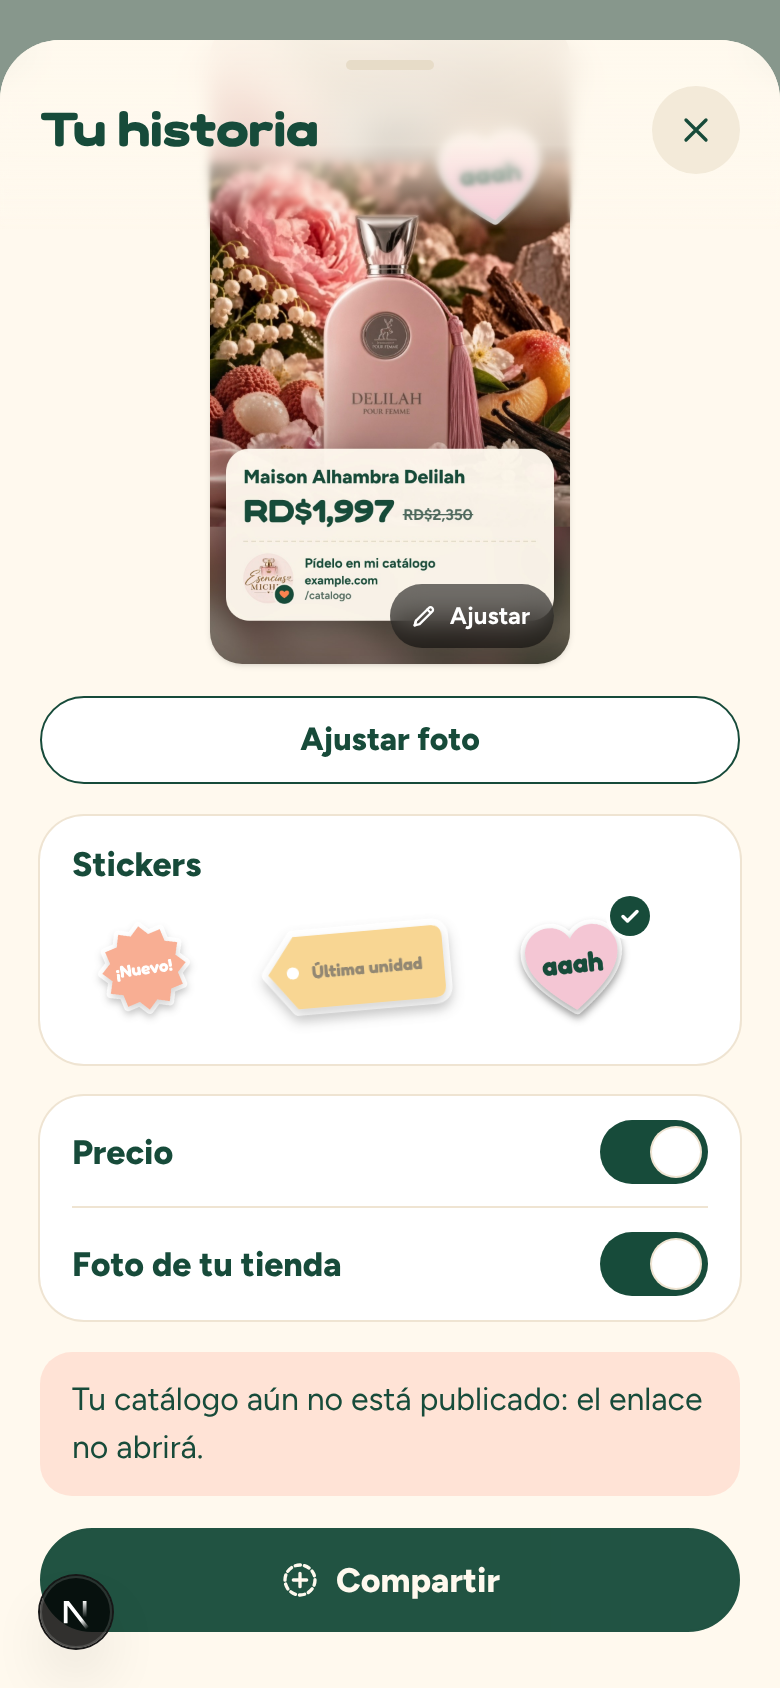
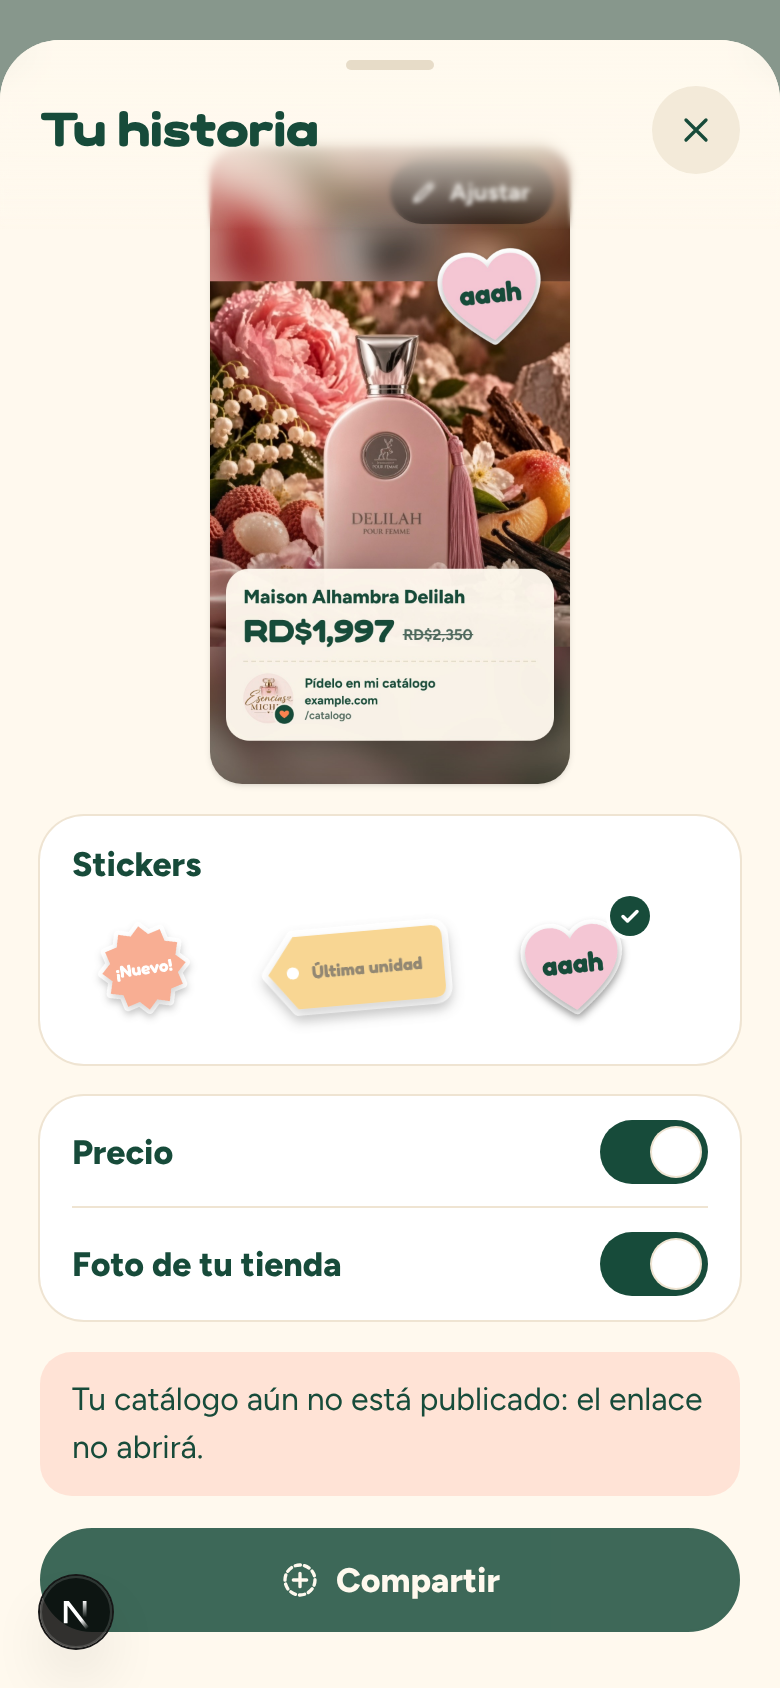
Historia: sin botón «Ajustar foto» duplicado, píldora «Ajustar» arriba a la derecha y «Historia» en tarjetas angostas
Claude-Session: https://claude.ai/code/session_013HrY2G9hccboKChpkxYntr

Changed region(s): [[0.2462, 0.0308, 0.7385, 0.4621], [0.0308, 0.8934, 0.9538, 0.9858], [0.9231, 0.4313, 0.9538, 0.4621]]

diff --git a/components/catalogo/hoja-historia.tsx b/components/catalogo/hoja-historia.tsx
@@ -115,7 +115,7 @@ export function HojaHistoria({ producto, promos, tienda, alCerrar }: { producto:
     <>
       <Hoja abierta alCerrar={alCerrar} titulo="Tu historia" altura="auto">
         <div className="flex flex-col gap-4">
-          {/* Tocar la vista previa abre «Ajustar foto»; la píldora «Ajustar» de la esquina lo deja ver */}
+          {/* Tocar la vista previa abre «Ajustar foto»; la píldora «Ajustar» de la esquina superior lo deja ver */}
           <button
             type="button"
             aria-label="Vista previa: toca para ajustar la foto"
@@ -131,13 +131,12 @@ export function HojaHistoria({ producto, promos, tienda, alCerrar }: { producto:
             ) : (
               <p role="status" className="grid h-full place-items-center px-3 text-center text-secundario text-texto-secundario">Preparando…</p>
             )}
-            <span aria-hidden="true" data-pildora-ajustar className="absolute bottom-2 right-2 flex h-8 items-center gap-1.5 rounded-full bg-black/55 pl-2.5 pr-3 text-[12px] font-bold leading-none text-white backdrop-blur-sm">
+            <span aria-hidden="true" data-pildora-ajustar className="absolute right-2 top-2 flex h-8 items-center gap-1.5 rounded-full bg-black/55 pl-2.5 pr-3 text-[12px] font-bold leading-none text-white backdrop-blur-sm">
               <IconoEditar tamano={14} />
               Ajustar
             </span>
           </button>
 
-          <Boton jerarquia="secundario" anchoCompleto deshabilitado={!natural || !ajuste} onClick={() => setAjustando(true)}>Ajustar foto</Boton>
 
           <div className="rounded-radio-l bg-superficie px-4 py-3 ring-1 ring-linea">
             <p className="text-destacado text-texto">Stickers</p>

diff --git a/components/catalogo/vista-catalogo.tsx b/components/catalogo/vista-catalogo.tsx
@@ -227,10 +227,10 @@ function TarjetaProducto({ producto: p, promos, alHistoria, prioridad = false, a
       aria-label={`Agregar ${p.nombre} a historia`}
       className="tocable absolute top-0.5 right-0.5 z-10 flex min-h-11 items-center justify-end text-white focus-visible:outline-3 focus-visible:outline-offset-2 focus-visible:outline-foco"
     >
-      {/* Píldora de vidrio con el ícono y el texto; en tarjetas angostas (2 columnas) el texto se acorta a «A historia» */}
+      {/* Píldora de vidrio con el ícono y el texto; en tarjetas angostas (2 columnas) el texto se acorta a «Historia» */}
       <span aria-hidden="true" className="flex h-8 items-center gap-1.5 rounded-full bg-black/45 pl-2.5 pr-3 text-[12px] font-bold leading-none backdrop-blur-sm">
         <IconoHistoria tamano={16} className="shrink-0" />
-        <span className="@[200px]:hidden">A historia</span>
+        <span className="@[200px]:hidden">Historia</span>
         <span className="hidden @[200px]:inline">Agregar a historia</span>
       </span>
     </button>
